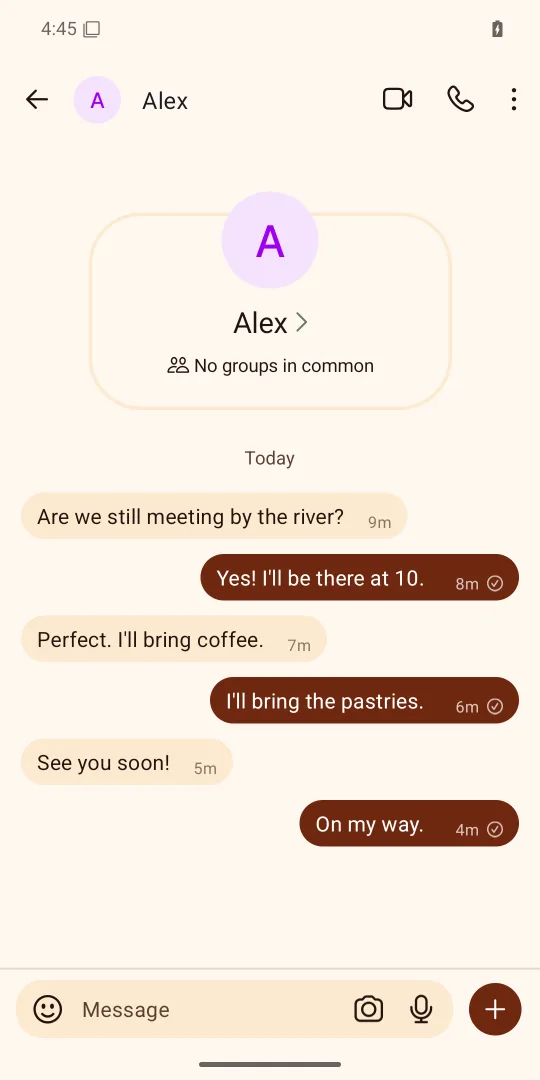
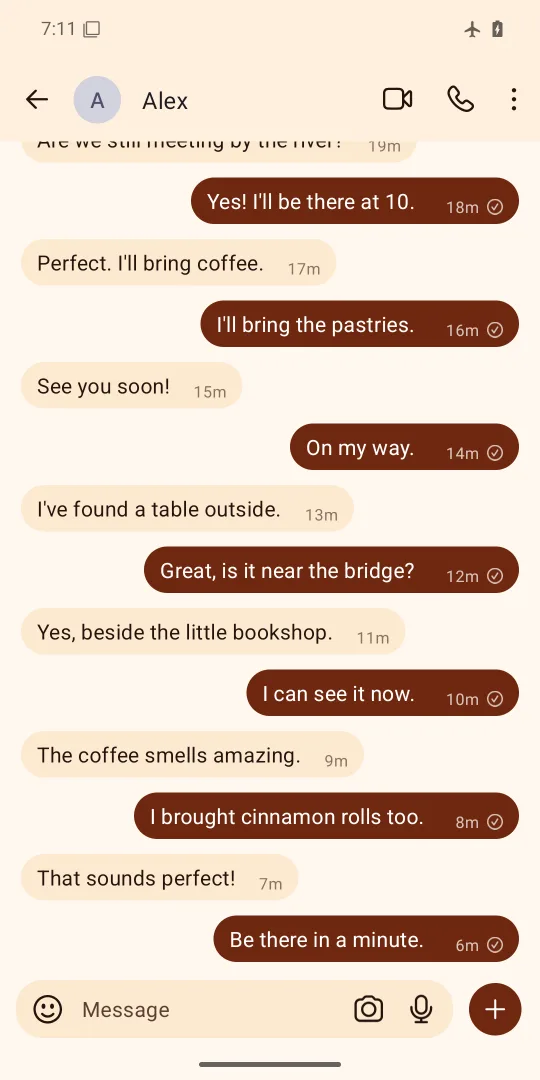
Show an ongoing conversation in real app screenshots
Use the genuine latest-message state of a fuller offline Alex thread so readable bubbles appear earlier without changing the hero layout. Retain encryption and lock pixels and record durable security restoration.

Layer: screenshots

Changed region(s): [[0.0296, 0.0611, 0.9778, 0.9167], [0.0593, 0.0, 0.1481, 0.0306], [0.8593, 0.0, 0.8889, 0.0306]]

diff --git a/docs/screenshots/pr-95/ongoing-conversation-capture.md b/docs/screenshots/pr-95/ongoing-conversation-capture.md
@@ -1,0 +1,37 @@
+# Fuller offline Alex conversation capture
+
+Date: 2026-11-12. Dedicated Pixel 6 API 35 Google APIs x86_64 AVD `collie-alex-thread-api35`, serial `emulator-5562`; cached SDK, no user devices touched. Display override was `1080x2160` (physical emulated size before override `1080x2400`).
+
+## Build and fixture
+
[3 lines of base64/hex data omitted]
+- Installed matching pair with `adb -s emulator-5562 install -r <app.apk>` and `adb -s emulator-5562 install -r <test.apk>`.
+- Before install/seed and after restore: `cmd connectivity airplane-mode` = `enabled`; `settings get global mobile_data` = `0`; `cmd wifi status` = `Wifi is disabled`; `dumpsys connectivity` = `Active default network: none`. The fixture rule disabled app networking before local registration and asserted it remained disabled.
+- Seed command: `adb -s emulator-5562 shell am instrument -w -r -e class org.thoughtcrime.securesms.OfflineConversationCaptureTest#seedOfflineDemo im.collie.app.test/org.thoughtcrime.securesms.testing.SignalTestRunner`. Result: `OK (1 test)`. Seeded 14 alternating fictional local messages for Alex.
+
+## Capture
+
+- Normal production launch: `adb -s emulator-5562 shell am start -W -a android.intent.action.MAIN -c android.intent.category.LAUNCHER -n im.collie.app/org.thoughtcrime.securesms.RoutingActivity`; opened the Alex row through the real UI. The conversation was already at its newest message; no scrolling or UI alteration was needed.
+- Native screenshot command: `adb -s emulator-5562 exec-out screencap -p > ongoing-conversation-api35.png`.
[2 lines of base64/hex data omitted]
+- UI dump includes 14 message-body nodes. `Alex` title bounds `[284,168][376,231]`; conversation app bar `[147,115][731,283]`; composer panel `[0,1939][1080,2097]`, editor `[159,1960][706,2076]`. First visible message-text bound (“Are we still meeting by the river?”) `[74,250][802,307]`, naturally partly under the app bar. First fully readable message-text bound (“Yes! I'll be there at 10.”) `[414,373][1006,430]`.
+- At capture, WMS `mCurrentFocus`, `mFocusedApp`, and `mFocusedWindow` named `im.collie.app/org.thoughtcrime.securesms.RoutingActivity`; its attributes had `LAYOUT_IN_SCREEN LAYOUT_INSET_DECOR SPLIT_TOUCH` with no `SECURE`; surface was ready, shown, and on-screen. The saved native PNG shows actual app-rendered Alex bubbles, app bar, and composer.
+
+## Durable security restore
+
+- Ran `OfflineDemoSecurityRestoreTest#restoreAfterCapture`: `OK (1 test)`. This no-registration helper calls `SignalStore.blockUntilAllWritesFinished()` after restoring security.
+- Force-stopped only `im.collie.app`, then cold-launched the exported `RoutingActivity` normally. Production PID `4149`; top-resumed and focused window was `im.collie.app/org.thoughtcrime.securesms.RoutingActivity`. Cold WMS attributes included `LAYOUT_IN_SCREEN SECURE LAYOUT_INSET_DECOR SPLIT_TOUCH`. Guest still had airplane enabled, Wi-Fi disabled, mobile data `0`, and no active default network.
+- The capture was visually accepted by site_author. No app source was changed by this runtime lane.
+
+## Selected website and Fastlane assets
+
+Fastlane1.png is the unmodified native PNG above. Website conversation.webp is its540×1080 derivative, SHA256230620ee9b676c145f4f729fd356258921826732fcad4050b889a072326edd62, generated with `cwebp -quiet -q 82 -resize 540 1080 ongoing-conversation-api35.png -o conversation.webp`. No crop, recoloring or compositing. The first fully readable bubble container begins355px down; its text begins373px down, versus985/1003px in the prior six-message image. The partly masked historical message at250px is not counted as fully readable.
+
+Build checkout was ae8af5670c7a03dd77041a3dfba54a0085e01c0c plus the two temporary test fixtures only. Production app sources remain unchanged from02c414c19ae686451de85bd4f46cc9d3209f4c5c, including PR86. The app APK is bit-identical to the original accepted capture. The exact current fourteen-message/durable-write fixture is offline-demo-security.kt.txt; unchanged rule is offline-demo-rule.kt.txt. Build uses the same cached JDK21/SDK/Gradle command recorded in conversation-capture.md; it succeeded in1m8s (776tasks:323executed,453from cache). Seed and durable restore each collected/passed1test; no new encryption test is claimed because those assets were untouched.
+
+Encryption/lock asset guards are unchanged: website encryption6862fbc60d5eb744ec9ba441bdec5ba4e064f3674343d5909760a19180bb0848; website lock8777f78f07d1c78f9305d0bac3107046ad1351b2bc65c3d7403c1aeacff561c6; Fastlane2 lock4536a908d8410fa9a03bc1640e8500ecf0873eafca9fe7deb82d06daa6401a38; Fastlane3 encryptionb85f15db028af21b96692d4baa431496e19ccc7304e11cd4612046ee0245f5da. No HTML/CSS/copy/layout change accompanies this selection.
+
+User disk continuation authority: “Don't worry about disk free warning until it's below 30G, continue”. Before heavy writes agent-disk-check reported OK free106G/unallocated7G/metadata74%. Only the owned AVD/emulator, temporary app-test fixtures and generated worktree build directories are removed; shared caches and requested localhost8879 server remain.

diff --git a/docs/site/README.md b/docs/site/README.md
@@ -54,7 +54,7 @@ Pull requests only build. The APK button always points at
 | `assets/fonts/manrope.ttf`, `sora.ttf` and their `OFL.txt` | google/fonts at commit `b31870aff700ab7a1d74fa0c6887d95beb9e0037`, the same files repo.collie.im pins |
 | `assets/collie-icon.svg`, `collie-foreground.svg` | `docs/assets/` unchanged |
 | `assets/og.png` | `docs/assets/collie-feature-graphic.svg` rendered at 1200 px wide with `rsvg-convert` |
-| `assets/screens/conversation.webp` | Native API35 offline demo with fictional Alex/six messages, now Fastlane 1.png; 1080×2160 resized to 540×1080 with `cwebp -q 82`; [capture provenance](../screenshots/pr-95/conversation-capture.md) |
+| `assets/screens/conversation.webp` | Native API35 offline demo with fictional Alex/fourteen-message ongoing thread, now Fastlane 1.png; 1080×2160 resized to 540×1080 with `cwebp -q 82`; [capture provenance](../screenshots/pr-95/conversation-capture.md) |
 | `assets/screens/encryption.webp` | Original corrected 1080×2400 API35 capture in immutable `555fff83a6b7e8f5b8de89f522859f250a166b5f`, resized to 540×1200; current Fastlane 3.png is a separate native 1080×2160 capture for its 2:1 limit |
 | `assets/screens/locked.webp`, `proxy.webp` | Existing Fastlane locked (formerly 4.png, now 2.png) and proxy (6.png) captures, resized to 540 px wide with `cwebp -q 82`; proxy retained but no longer a hero phone |
 

diff --git a/docs/screenshots/pr-95/conversation-capture.md b/docs/screenshots/pr-95/conversation-capture.md
@@ -1,3 +1,5 @@
+> Current chat selection: [ongoing-conversation-capture.md](ongoing-conversation-capture.md) supersedes this six-message conversation image with a genuine fourteen-message latest-thread capture. This earlier record remains the valid encryption provenance and historical six-message/chat build record. Its original helper/UI dump are preserved at immutable ae8af5670c7a03dd77041a3dfba54a0085e01c0c; the current helper and chat-native-ui.xml now represent the fuller thread. No original encryption/lock asset changed.
+
 # Offline native capture provenance
 
 - Dedicated AVD: collieim-offline-api35, emulator-5562, API 35 Pixel 6; guest remained offline.
